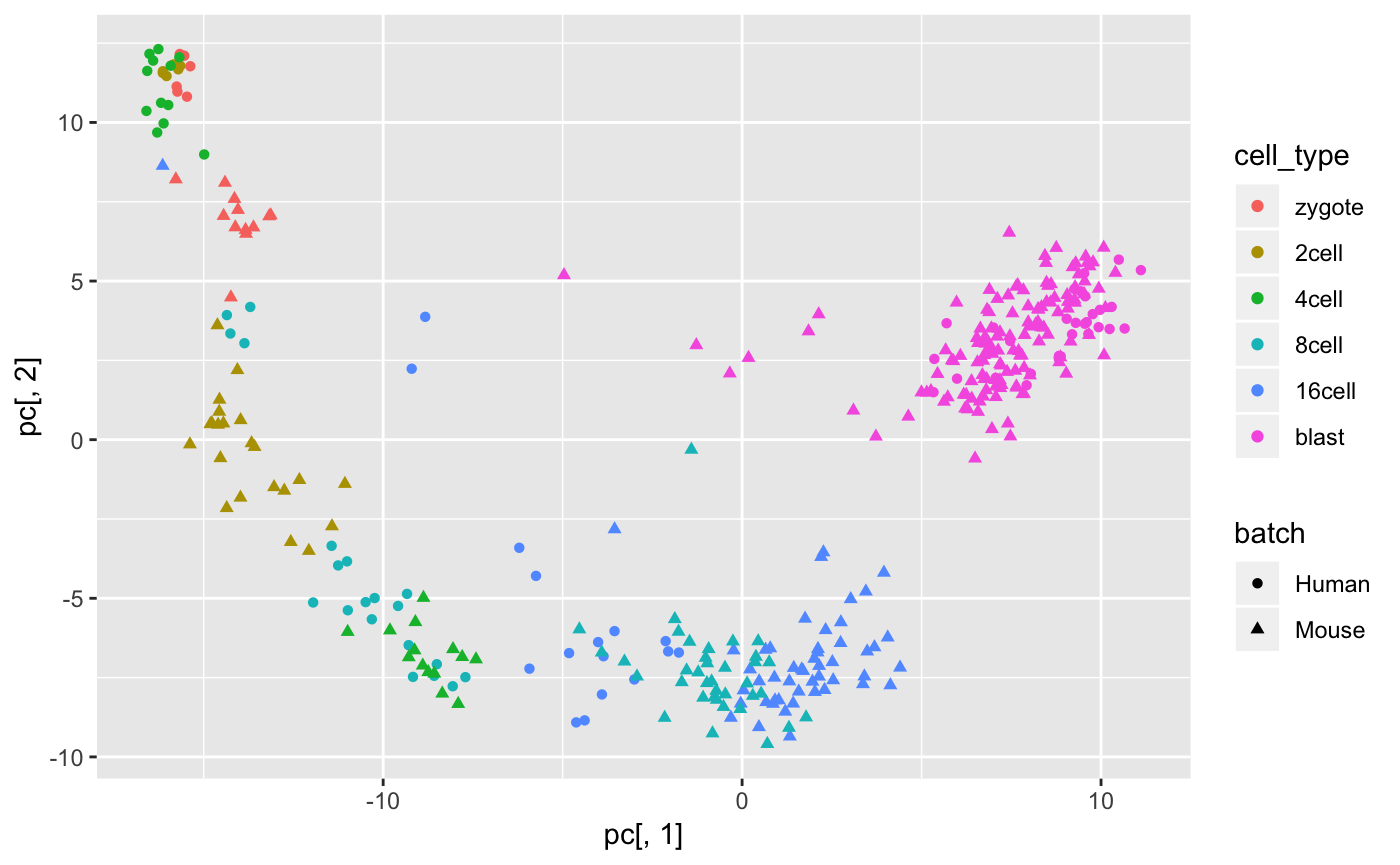
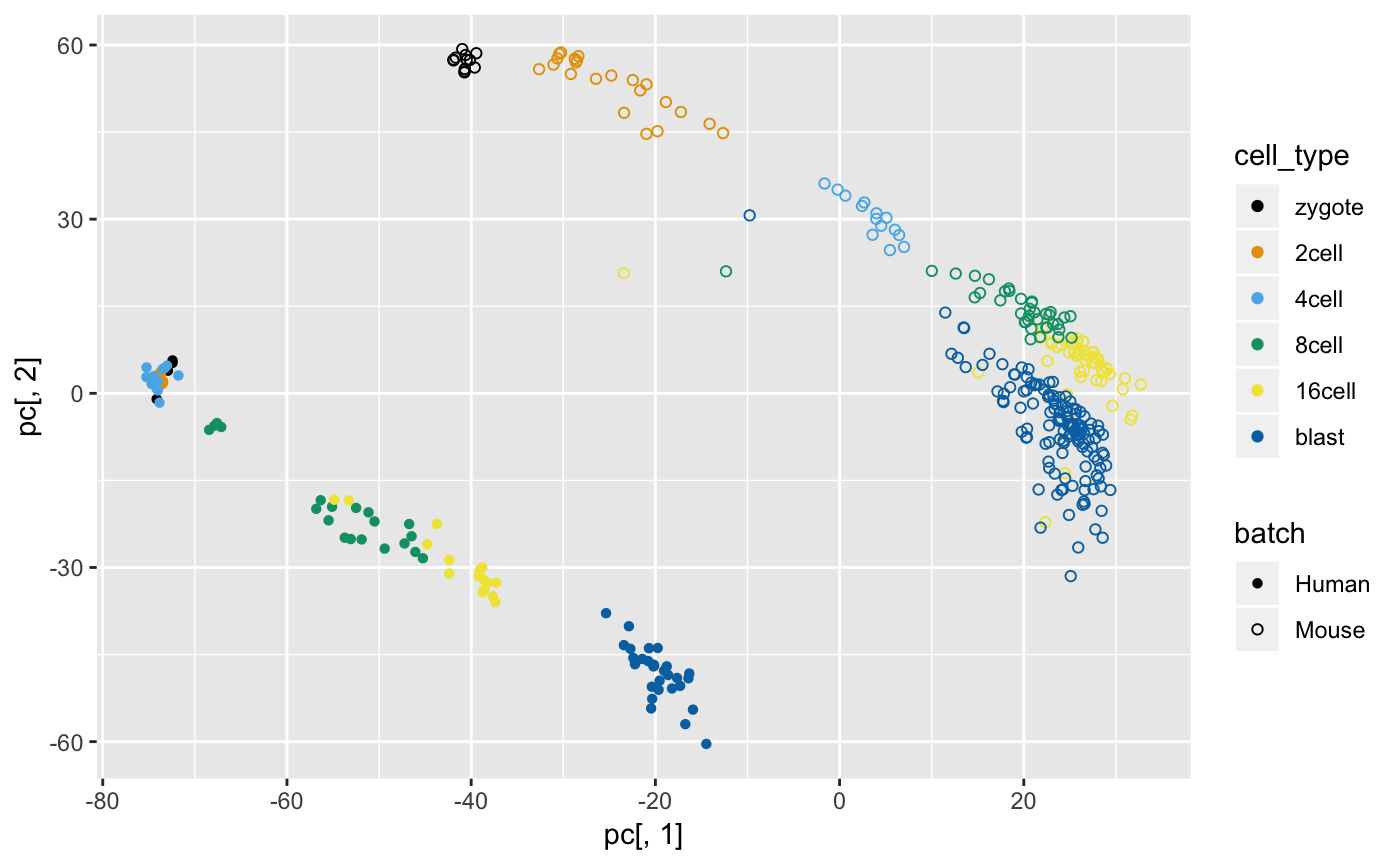
fixed "Get Started" vignette

diff --git a/docs/articles/corgi.html b/docs/articles/corgi.html
@@ -133,60 +133,59 @@
 <div class="sourceCode" id="cb8"><pre class="sourceCode r"><code class="sourceCode r"><a class="sourceLine" id="cb8-1" data-line-number="1">combined &lt;-<span class="st"> </span><span class="kw"><a href="https://www.rdocumentation.org/packages/base/topics/cbind">cbind</a></span>(<span class="kw">logcounts</span>(yan),<span class="kw">logcounts</span>(deng))</a>
 <a class="sourceLine" id="cb8-2" data-line-number="2">cell_type &lt;-<span class="st"> </span>forcats<span class="op">::</span><span class="kw"><a href="https://forcats.tidyverse.org/reference/fct_c.html">fct_c</a></span>(<span class="kw"><a href="https://www.rdocumentation.org/packages/base/topics/factor">as.factor</a></span>(yan<span class="op">$</span>cell_type1),<span class="kw"><a href="https://www.rdocumentation.org/packages/base/topics/factor">as.factor</a></span>(deng<span class="op">$</span>cell_type1))</a>
 <a class="sourceLine" id="cb8-3" data-line-number="3">cell_type &lt;-<span class="st"> </span><span class="kw"><a href="https://www.rdocumentation.org/packages/base/topics/factor">factor</a></span>(cell_type, <span class="dt">levels =</span> <span class="kw"><a href="https://www.rdocumentation.org/packages/base/topics/c">c</a></span>(<span class="st">"zygote"</span>,<span class="st">"2cell"</span>,<span class="st">"4cell"</span>,<span class="st">"8cell"</span>,<span class="st">"16cell"</span>,<span class="st">"blast"</span>))</a>
-<a class="sourceLine" id="cb8-4" data-line-number="4">batch &lt;-<span class="st"> </span><span class="kw"><a href="https://www.rdocumentation.org/packages/base/topics/c">c</a></span>(<span class="kw"><a href="https://www.rdocumentation.org/packages/base/topics/rep">rep</a></span>(<span class="st">"Human"</span>,<span class="kw"><a href="https://www.rdocumentation.org/packages/base/topics/nrow">ncol</a></span>(yan)),<span class="kw"><a href="https://www.rdocumentation.org/packages/base/topics/rep">rep</a></span>(<span class="st">"Mouse"</span>,<span class="kw"><a href="https://www.rdocumentation.org/packages/base/topics/nrow">ncol</a></span>(deng)))</a>
-<a class="sourceLine" id="cb8-5" data-line-number="5">my_palette &lt;-<span class="st"> </span><span class="kw"><a href="https://www.rdocumentation.org/packages/base/topics/c">c</a></span>(<span class="st">"#000000"</span>, <span class="st">"#E69F00"</span>, <span class="st">"#56B4E9"</span>, <span class="st">"#009E73"</span>, <span class="st">"#F0E442"</span>, <span class="st">"#0072B2"</span>, <span class="st">"#D55E00"</span>, <span class="st">"#CC79A7"</span>)</a></code></pre></div>
+<a class="sourceLine" id="cb8-4" data-line-number="4">batch &lt;-<span class="st"> </span><span class="kw"><a href="https://www.rdocumentation.org/packages/base/topics/c">c</a></span>(<span class="kw"><a href="https://www.rdocumentation.org/packages/base/topics/rep">rep</a></span>(<span class="st">"Human"</span>,<span class="kw"><a href="https://www.rdocumentation.org/packages/base/topics/nrow">ncol</a></span>(yan)),<span class="kw"><a href="https://www.rdocumentation.org/packages/base/topics/rep">rep</a></span>(<span class="st">"Mouse"</span>,<span class="kw"><a href="https://www.rdocumentation.org/packages/base/topics/nrow">ncol</a></span>(deng)))</a></code></pre></div>
+<p>Wrapper around the qplot <code><a href="https://ggplot2.tidyverse.org/reference/qplot.html">ggplot2::qplot</a></code> function with our color scheme</p>
+<div class="sourceCode" id="cb9"><pre class="sourceCode r"><code class="sourceCode r"><a class="sourceLine" id="cb9-1" data-line-number="1">qplot &lt;-<span class="st"> </span><span class="cf">function</span>(...){</a>
+<a class="sourceLine" id="cb9-2" data-line-number="2">  ggplot2<span class="op">::</span><span class="kw"><a href="https://ggplot2.tidyverse.org/reference/qplot.html">qplot</a></span>(...) <span class="op">+</span></a>
+<a class="sourceLine" id="cb9-3" data-line-number="3"><span class="st">  </span><span class="kw"><a href="https://ggplot2.tidyverse.org/reference/scale_manual.html">scale_color_manual</a></span>(<span class="dt">values =</span> <span class="kw"><a href="https://www.rdocumentation.org/packages/base/topics/c">c</a></span>(<span class="st">"#000000"</span>, <span class="st">"#E69F00"</span>, <span class="st">"#56B4E9"</span>, <span class="st">"#009E73"</span>, <span class="st">"#F0E442"</span>, <span class="st">"#0072B2"</span>, <span class="st">"#D55E00"</span>, <span class="st">"#CC79A7"</span>)) <span class="op">+</span></a>
+<a class="sourceLine" id="cb9-4" data-line-number="4"><span class="st">  </span><span class="kw"><a href="https://ggplot2.tidyverse.org/reference/scale_manual.html">scale_shape_manual</a></span>(<span class="dt">values =</span> <span class="kw"><a href="https://www.rdocumentation.org/packages/base/topics/c">c</a></span>(<span class="dv">16</span>,<span class="dv">1</span>))</a>
+<a class="sourceLine" id="cb9-5" data-line-number="5">}</a></code></pre></div>
 <div id="multidimensional-scaling-mds" class="section level2">
 <h2 class="hasAnchor">
 <a href="#multidimensional-scaling-mds" class="anchor"></a>Multidimensional scaling (MDS)</h2>
 <div id="on-all-genes" class="section level3">
 <h3 class="hasAnchor">
 <a href="#on-all-genes" class="anchor"></a>On all genes</h3>
-<div class="sourceCode" id="cb9"><pre class="sourceCode r"><code class="sourceCode r"><a class="sourceLine" id="cb9-1" data-line-number="1">D &lt;-<span class="st"> </span>(<span class="dv">1</span><span class="op">-</span><span class="kw"><a href="https://www.rdocumentation.org/packages/stats/topics/cor">cor</a></span>(combined,<span class="dt">method =</span> <span class="st">"spearman"</span>))<span class="op">/</span><span class="dv">2</span></a>
-<a class="sourceLine" id="cb9-2" data-line-number="2">mds &lt;-<span class="st"> </span><span class="kw"><a href="https://www.rdocumentation.org/packages/stats/topics/cmdscale">cmdscale</a></span>(D,<span class="dt">k=</span><span class="dv">2</span>)</a>
-<a class="sourceLine" id="cb9-3" data-line-number="3"></a>
-<a class="sourceLine" id="cb9-4" data-line-number="4"><span class="kw"><a href="https://ggplot2.tidyverse.org/reference/qplot.html">qplot</a></span>(mds[,<span class="dv">1</span>],mds[,<span class="dv">2</span>],<span class="dt">color =</span> cell_type,<span class="dt">shape =</span> batch) <span class="op">+</span></a>
-<a class="sourceLine" id="cb9-5" data-line-number="5"><span class="st">  </span><span class="kw"><a href="https://ggplot2.tidyverse.org/reference/scale_manual.html">scale_color_manual</a></span>(<span class="dt">values =</span> my_palette) <span class="op">+</span></a>
-<a class="sourceLine" id="cb9-6" data-line-number="6"><span class="st">  </span><span class="kw"><a href="https://ggplot2.tidyverse.org/reference/scale_manual.html">scale_shape_manual</a></span>(<span class="dt">values =</span> <span class="kw"><a href="https://www.rdocumentation.org/packages/base/topics/c">c</a></span>(<span class="dv">16</span>,<span class="dv">1</span>))</a></code></pre></div>
-<p><img src="corgi_files/figure-html/unnamed-chunk-11-1.png" width="700"></p>
+<div class="sourceCode" id="cb10"><pre class="sourceCode r"><code class="sourceCode r"><a class="sourceLine" id="cb10-1" data-line-number="1">D &lt;-<span class="st"> </span>(<span class="dv">1</span><span class="op">-</span><span class="kw"><a href="https://www.rdocumentation.org/packages/stats/topics/cor">cor</a></span>(combined,<span class="dt">method =</span> <span class="st">"spearman"</span>))<span class="op">/</span><span class="dv">2</span></a>
+<a class="sourceLine" id="cb10-2" data-line-number="2">mds &lt;-<span class="st"> </span><span class="kw"><a href="https://www.rdocumentation.org/packages/stats/topics/cmdscale">cmdscale</a></span>(D,<span class="dt">k=</span><span class="dv">2</span>)</a>
+<a class="sourceLine" id="cb10-3" data-line-number="3"></a>
+<a class="sourceLine" id="cb10-4" data-line-number="4"><span class="kw"><a href="https://ggplot2.tidyverse.org/reference/qplot.html">qplot</a></span>(mds[,<span class="dv">1</span>],mds[,<span class="dv">2</span>],<span class="dt">color =</span> cell_type,<span class="dt">shape =</span> batch)</a></code></pre></div>
+<p><img src="corgi_files/figure-html/unnamed-chunk-12-1.png" width="700"></p>
 </div>
 <div id="on-corgi-genes" class="section level3">
 <h3 class="hasAnchor">
 <a href="#on-corgi-genes" class="anchor"></a>On CorGI genes</h3>
-<div class="sourceCode" id="cb10"><pre class="sourceCode r"><code class="sourceCode r"><a class="sourceLine" id="cb10-1" data-line-number="1">D &lt;-<span class="st"> </span>(<span class="dv">1</span><span class="op">-</span><span class="kw"><a href="https://www.rdocumentation.org/packages/stats/topics/cor">cor</a></span>(combined[corgi_gene_set,],<span class="dt">method =</span> <span class="st">"spearman"</span>))<span class="op">/</span><span class="dv">2</span></a>
-<a class="sourceLine" id="cb10-2" data-line-number="2">mds &lt;-<span class="st"> </span><span class="kw"><a href="https://www.rdocumentation.org/packages/stats/topics/cmdscale">cmdscale</a></span>(D,<span class="dt">k=</span><span class="dv">2</span>)</a>
-<a class="sourceLine" id="cb10-3" data-line-number="3"></a>
-<a class="sourceLine" id="cb10-4" data-line-number="4"><span class="kw"><a href="https://ggplot2.tidyverse.org/reference/qplot.html">qplot</a></span>(mds[,<span class="dv">1</span>],mds[,<span class="dv">2</span>],<span class="dt">color =</span> cell_type,<span class="dt">shape =</span> batch) <span class="op">+</span></a>
-<a class="sourceLine" id="cb10-5" data-line-number="5"><span class="st">  </span><span class="kw"><a href="https://ggplot2.tidyverse.org/reference/scale_manual.html">scale_color_manual</a></span>(<span class="dt">values =</span> my_palette) <span class="op">+</span></a>
-<a class="sourceLine" id="cb10-6" data-line-number="6"><span class="st">  </span><span class="kw"><a href="https://ggplot2.tidyverse.org/reference/scale_manual.html">scale_shape_manual</a></span>(<span class="dt">values =</span> <span class="kw"><a href="https://www.rdocumentation.org/packages/base/topics/c">c</a></span>(<span class="dv">16</span>,<span class="dv">1</span>))</a></code></pre></div>
-<p><img src="corgi_files/figure-html/unnamed-chunk-12-1.png" width="700"></p>
+<div class="sourceCode" id="cb11"><pre class="sourceCode r"><code class="sourceCode r"><a class="sourceLine" id="cb11-1" data-line-number="1">D &lt;-<span class="st"> </span>(<span class="dv">1</span><span class="op">-</span><span class="kw"><a href="https://www.rdocumentation.org/packages/stats/topics/cor">cor</a></span>(combined[corgi_gene_set,],<span class="dt">method =</span> <span class="st">"spearman"</span>))<span class="op">/</span><span class="dv">2</span></a>
+<a class="sourceLine" id="cb11-2" data-line-number="2">mds &lt;-<span class="st"> </span><span class="kw"><a href="https://www.rdocumentation.org/packages/stats/topics/cmdscale">cmdscale</a></span>(D,<span class="dt">k=</span><span class="dv">2</span>)</a>
+<a class="sourceLine" id="cb11-3" data-line-number="3"></a>
+<a class="sourceLine" id="cb11-4" data-line-number="4"><span class="kw"><a href="https://ggplot2.tidyverse.org/reference/qplot.html">qplot</a></span>(mds[,<span class="dv">1</span>],mds[,<span class="dv">2</span>],<span class="dt">color =</span> cell_type,<span class="dt">shape =</span> batch)</a></code></pre></div>
+<p><img src="corgi_files/figure-html/unnamed-chunk-13-1.png" width="700"></p>
 </div>
 </div>
 <div id="principal-component-analysis-pca" class="section level2">
 <h2 class="hasAnchor">
 <a href="#principal-component-analysis-pca" class="anchor"></a>Principal component analysis (PCA)</h2>
 <p>To use PCA, we first need to adjust the read-depth to be comparable across the two datasets</p>
-<div class="sourceCode" id="cb11"><pre class="sourceCode r"><code class="sourceCode r"><a class="sourceLine" id="cb11-1" data-line-number="1"><span class="kw"><a href="https://www.rdocumentation.org/packages/base/topics/library">library</a></span>(scran)</a>
-<a class="sourceLine" id="cb11-2" data-line-number="2">out &lt;-<span class="st"> </span><span class="kw"><a href="https://www.rdocumentation.org/packages/scran/topics/multiBatchNorm">multiBatchNorm</a></span>(yan,deng,<span class="dt">assay.type =</span> <span class="st">"logcounts"</span>)</a>
-<a class="sourceLine" id="cb11-3" data-line-number="3">yan &lt;-<span class="st"> </span>out[[<span class="dv">1</span>]]</a>
-<a class="sourceLine" id="cb11-4" data-line-number="4">deng &lt;-<span class="st"> </span>out[[<span class="dv">2</span>]]</a>
-<a class="sourceLine" id="cb11-5" data-line-number="5">combined &lt;-<span class="st"> </span><span class="kw"><a href="https://www.rdocumentation.org/packages/base/topics/cbind">cbind</a></span>(<span class="kw">logcounts</span>(yan),<span class="kw">logcounts</span>(deng))</a></code></pre></div>
+<div class="sourceCode" id="cb12"><pre class="sourceCode r"><code class="sourceCode r"><a class="sourceLine" id="cb12-1" data-line-number="1"><span class="kw"><a href="https://www.rdocumentation.org/packages/base/topics/library">library</a></span>(scran)</a>
+<a class="sourceLine" id="cb12-2" data-line-number="2">out &lt;-<span class="st"> </span><span class="kw"><a href="https://www.rdocumentation.org/packages/scran/topics/multiBatchNorm">multiBatchNorm</a></span>(yan,deng,<span class="dt">assay.type =</span> <span class="st">"logcounts"</span>)</a>
+<a class="sourceLine" id="cb12-3" data-line-number="3">yan &lt;-<span class="st"> </span>out[[<span class="dv">1</span>]]</a>
+<a class="sourceLine" id="cb12-4" data-line-number="4">deng &lt;-<span class="st"> </span>out[[<span class="dv">2</span>]]</a>
+<a class="sourceLine" id="cb12-5" data-line-number="5">combined &lt;-<span class="st"> </span><span class="kw"><a href="https://www.rdocumentation.org/packages/base/topics/cbind">cbind</a></span>(<span class="kw">logcounts</span>(yan),<span class="kw">logcounts</span>(deng))</a></code></pre></div>
 <p>Perform PCA</p>
-<div class="sourceCode" id="cb12"><pre class="sourceCode r"><code class="sourceCode r"><a class="sourceLine" id="cb12-1" data-line-number="1">pc &lt;-<span class="st"> </span><span class="kw"><a href="https://www.rdocumentation.org/packages/stats/topics/prcomp">prcomp</a></span>(<span class="kw"><a href="https://www.rdocumentation.org/packages/base/topics/t">t</a></span>(combined),<span class="dt">rank. =</span> <span class="dv">2</span>)<span class="op">$</span>x</a></code></pre></div>
+<div class="sourceCode" id="cb13"><pre class="sourceCode r"><code class="sourceCode r"><a class="sourceLine" id="cb13-1" data-line-number="1">pc &lt;-<span class="st"> </span><span class="kw"><a href="https://www.rdocumentation.org/packages/stats/topics/prcomp">prcomp</a></span>(<span class="kw"><a href="https://www.rdocumentation.org/packages/base/topics/t">t</a></span>(combined),<span class="dt">rank. =</span> <span class="dv">2</span>)<span class="op">$</span>x</a></code></pre></div>
 <div id="on-all-genes-1" class="section level3">
 <h3 class="hasAnchor">
 <a href="#on-all-genes-1" class="anchor"></a>On all genes</h3>
-<div class="sourceCode" id="cb13"><pre class="sourceCode r"><code class="sourceCode r"><a class="sourceLine" id="cb13-1" data-line-number="1"><span class="kw"><a href="https://ggplot2.tidyverse.org/reference/qplot.html">qplot</a></span>(pc[,<span class="dv">1</span>],pc[,<span class="dv">2</span>],<span class="dt">color =</span> cell_type,<span class="dt">shape =</span> batch) <span class="op">+</span></a>
-<a class="sourceLine" id="cb13-2" data-line-number="2"><span class="st">  </span><span class="kw"><a href="https://ggplot2.tidyverse.org/reference/scale_manual.html">scale_color_manual</a></span>(<span class="dt">values =</span> my_palette) <span class="op">+</span></a>
-<a class="sourceLine" id="cb13-3" data-line-number="3"><span class="st">  </span><span class="kw"><a href="https://ggplot2.tidyverse.org/reference/scale_manual.html">scale_shape_manual</a></span>(<span class="dt">values =</span> <span class="kw"><a href="https://www.rdocumentation.org/packages/base/topics/c">c</a></span>(<span class="dv">16</span>,<span class="dv">1</span>))</a></code></pre></div>
-<p><img src="corgi_files/figure-html/unnamed-chunk-15-1.png" width="700"></p>
+<div class="sourceCode" id="cb14"><pre class="sourceCode r"><code class="sourceCode r"><a class="sourceLine" id="cb14-1" data-line-number="1"><span class="kw"><a href="https://ggplot2.tidyverse.org/reference/qplot.html">qplot</a></span>(pc[,<span class="dv">1</span>],pc[,<span class="dv">2</span>],<span class="dt">color =</span> cell_type,<span class="dt">shape =</span> batch)</a></code></pre></div>
+<p><img src="corgi_files/figure-html/unnamed-chunk-16-1.png" width="700"></p>
 </div>
 <div id="on-corgi-genes-1" class="section level3">
 <h3 class="hasAnchor">
 <a href="#on-corgi-genes-1" class="anchor"></a>On CorGI genes</h3>
-<div class="sourceCode" id="cb14"><pre class="sourceCode r"><code class="sourceCode r"><a class="sourceLine" id="cb14-1" data-line-number="1"></a>
-<a class="sourceLine" id="cb14-2" data-line-number="2">pc &lt;-<span class="st"> </span><span class="kw"><a href="https://www.rdocumentation.org/packages/stats/topics/prcomp">prcomp</a></span>(<span class="kw"><a href="https://www.rdocumentation.org/packages/base/topics/t">t</a></span>(combined[corgi_gene_set,]),<span class="dt">rank. =</span> <span class="dv">2</span>)<span class="op">$</span>x</a>
-<a class="sourceLine" id="cb14-3" data-line-number="3"><span class="kw"><a href="https://ggplot2.tidyverse.org/reference/qplot.html">qplot</a></span>(pc[,<span class="dv">1</span>],pc[,<span class="dv">2</span>],<span class="dt">color =</span> cell_type,<span class="dt">shape =</span> batch)</a></code></pre></div>
-<p><img src="corgi_files/figure-html/unnamed-chunk-16-1.png" width="700"></p>
+<div class="sourceCode" id="cb15"><pre class="sourceCode r"><code class="sourceCode r"><a class="sourceLine" id="cb15-1" data-line-number="1"></a>
+<a class="sourceLine" id="cb15-2" data-line-number="2">pc &lt;-<span class="st"> </span><span class="kw"><a href="https://www.rdocumentation.org/packages/stats/topics/prcomp">prcomp</a></span>(<span class="kw"><a href="https://www.rdocumentation.org/packages/base/topics/t">t</a></span>(combined[corgi_gene_set,]),<span class="dt">rank. =</span> <span class="dv">2</span>)<span class="op">$</span>x</a>
+<a class="sourceLine" id="cb15-3" data-line-number="3"><span class="kw"><a href="https://ggplot2.tidyverse.org/reference/qplot.html">qplot</a></span>(pc[,<span class="dv">1</span>],pc[,<span class="dv">2</span>],<span class="dt">color =</span> cell_type,<span class="dt">shape =</span> batch)</a></code></pre></div>
+<p><img src="corgi_files/figure-html/unnamed-chunk-17-1.png" width="700"></p>
 </div>
 </div>
 </div>
